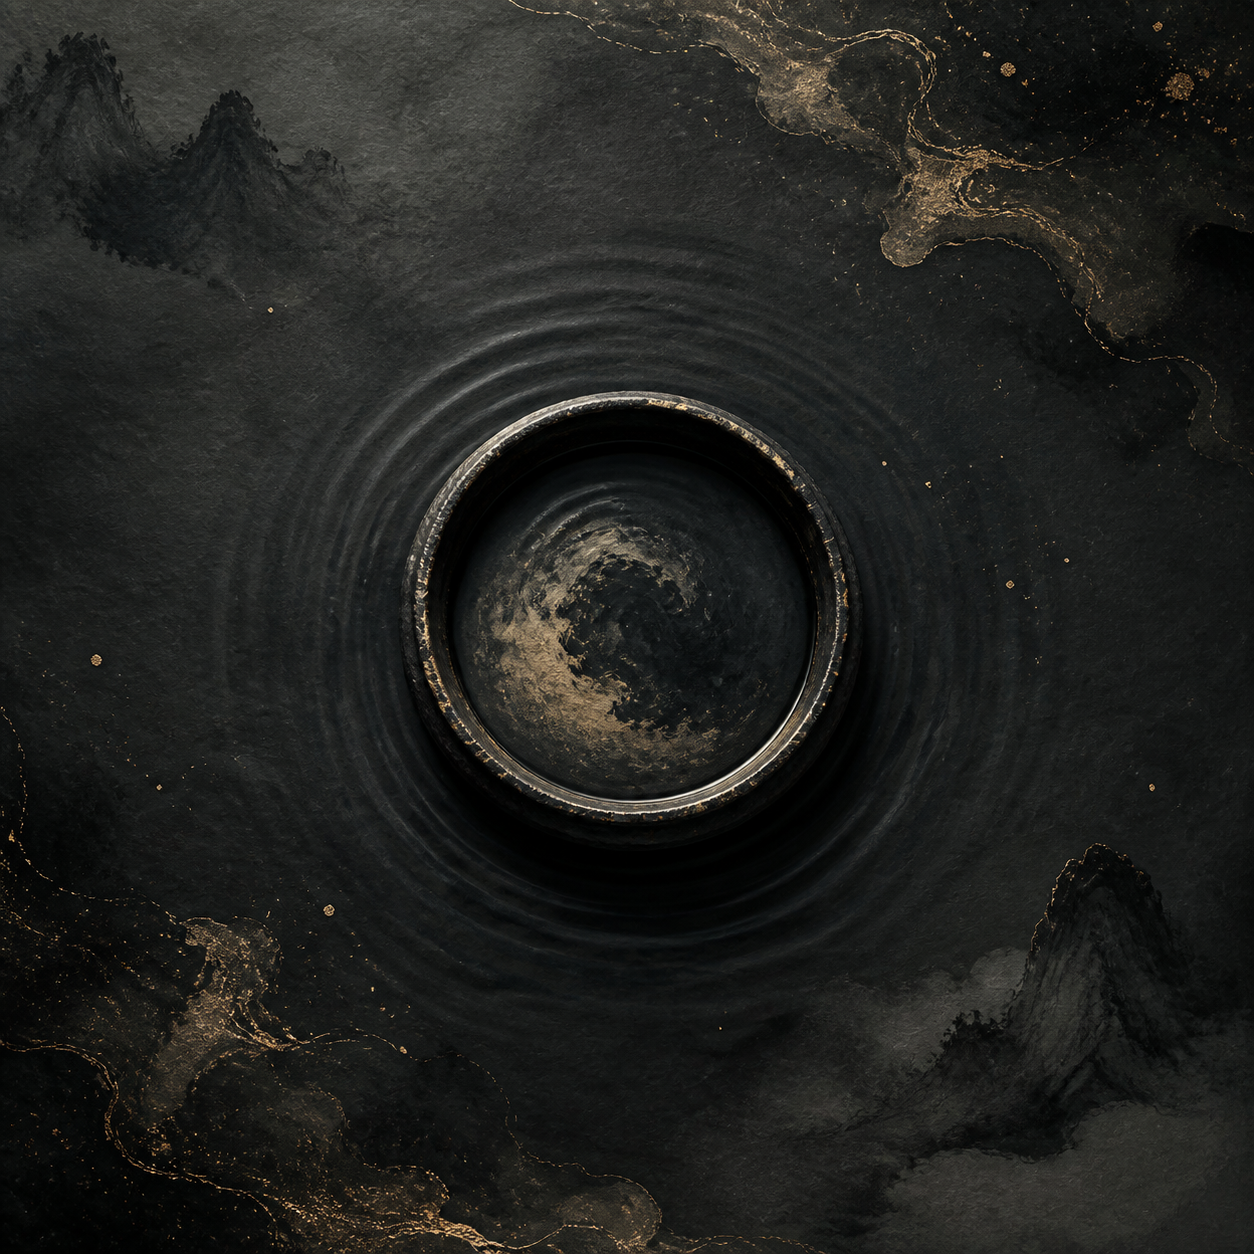
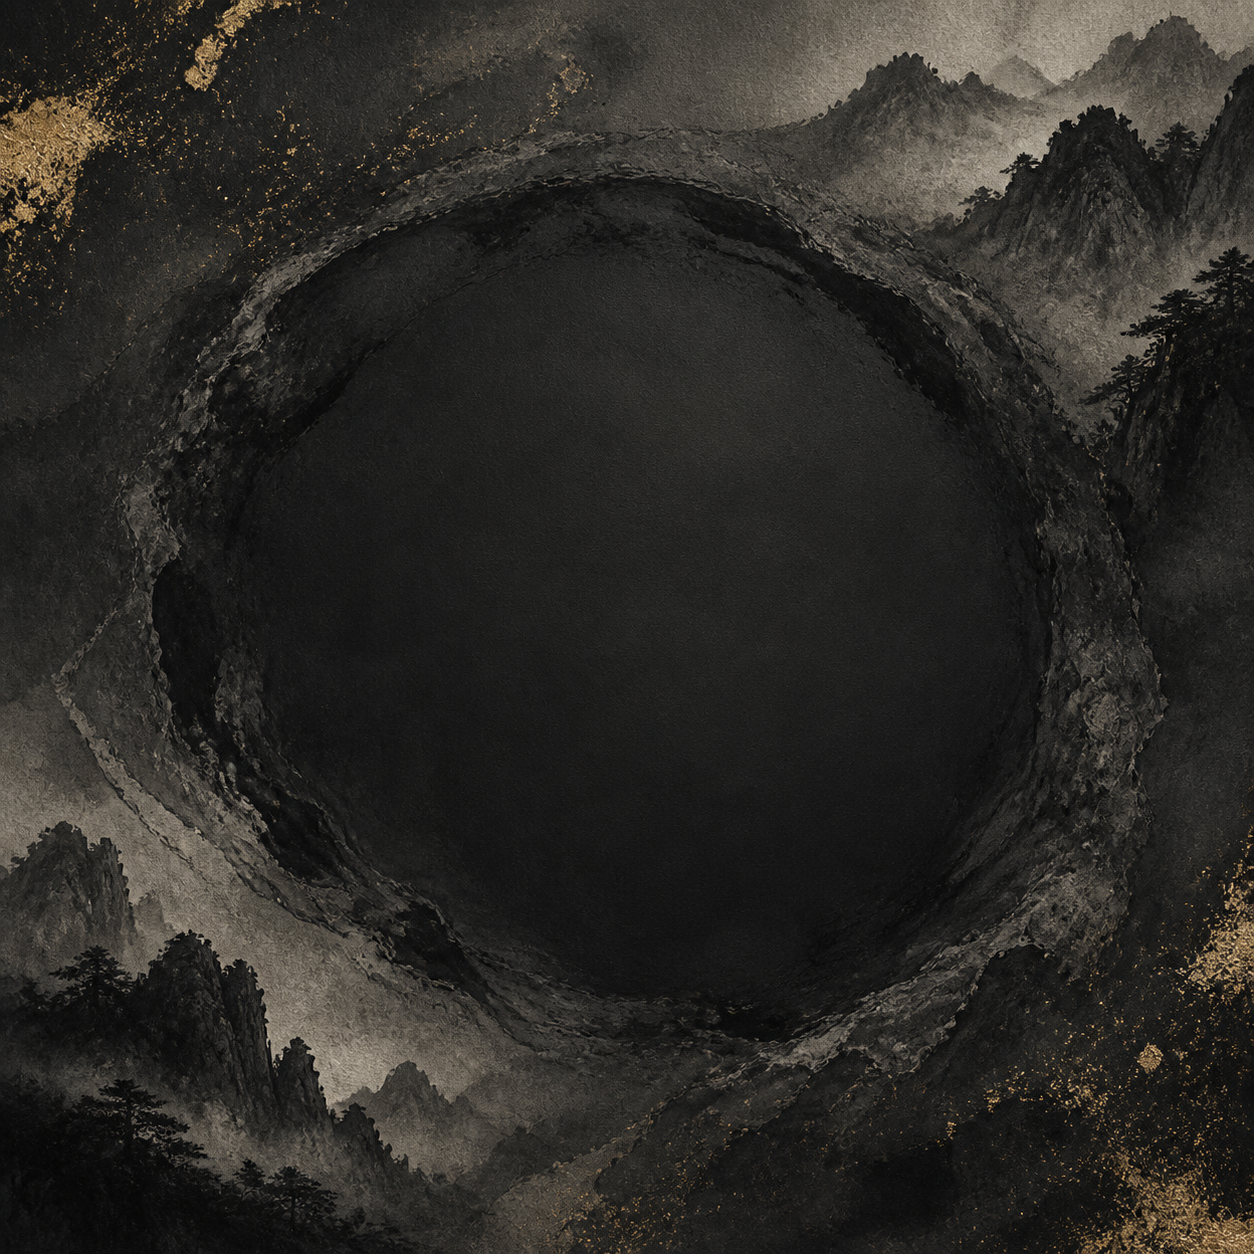
Separate audio lines from artwork backgrounds

diff --git a/backend/moyun_backend/static/anonymous-visualizer.js b/backend/moyun_backend/static/anonymous-visualizer.js
@@ -1,30 +1,29 @@
 (() => {
   "use strict";
 
-  const themes = {
-    "ink-resonance": { ink: "#0c1918", paper: "#263937", gold: "#dcc27c", mist: "#91a89a" },
-    "moonlit-strings": { ink: "#183331", paper: "#f2e5c1", gold: "#d2a848", mist: "#69877c" },
-    "landscape-score": { ink: "#102927", paper: "#dbe2cf", gold: "#e0bd65", mist: "#4e7569" },
+  const palettes = {
+    "ink-resonance": "#e4c878",
+    "moonlit-strings": "#c99d3d",
+    "landscape-score": "#e5bf61",
   };
-  const emptySpectrum = new Uint8Array(128);
   const states = [];
   let audioContext;
   let activeState;
-  let animationFrame;
+  let frameRequest;
 
-  const average = (data, start, end) => {
+  const average = (values, start, end) => {
     let total = 0;
-    const upper = Math.min(data.length, end);
-    for (let index = start; index < upper; index += 1) total += data[index];
+    const upper = Math.min(values.length, end);
+    for (let index = start; index < upper; index += 1) total += values[index];
     return upper > start ? total / ((upper - start) * 255) : 0;
   };
 
-  const resize = (state) => {
+  const fit = (state) => {
     const bounds = state.canvas.getBoundingClientRect();
     const ratio = Math.min(window.devicePixelRatio || 1, 2);
     const width = Math.max(1, Math.round(bounds.width));
     const height = Math.max(1, Math.round(bounds.height));
-    if (state.width === width && state.height === height && state.ratio === ratio) return;
+    if (width === state.width && height === state.height && ratio === state.ratio) return;
     state.width = width;
     state.height = height;
     state.ratio = ratio;
@@ -32,129 +31,95 @@
     state.canvas.height = height * ratio;
   };
 
-  const begin = (state) => {
-    resize(state);
+  const clear = (state) => {
+    fit(state);
     const { context, ratio, width, height } = state;
     context.setTransform(ratio, 0, 0, ratio, 0, 0);
     context.clearRect(0, 0, width, height);
     return { context, width, height };
   };
 
-  const drawBackground = (state, context, width, height, fallback, tint) => {
-    const background = state.background;
-    if (background?.complete && background.naturalWidth > 0) {
-      const scale = Math.max(width / background.naturalWidth, height / background.naturalHeight);
-      const drawWidth = background.naturalWidth * scale;
-      const drawHeight = background.naturalHeight * scale;
-      context.drawImage(background, (width - drawWidth) / 2, (height - drawHeight) / 2, drawWidth, drawHeight);
-      context.fillStyle = tint;
-      context.fillRect(0, 0, width, height);
-      return;
-    }
-    context.fillStyle = fallback;
-    context.fillRect(0, 0, width, height);
-  };
-
   const drawInk = (state, spectrum) => {
-    const { context, width, height } = begin(state);
-    const theme = state.theme;
+    const { context, width, height } = clear(state);
     const energy = average(spectrum, 2, 40);
     const centerX = width * 0.5;
-    const centerY = height * 0.54;
-    const radius = Math.min(width, height) * (0.17 + energy * 0.08);
-    drawBackground(state, context, width, height, theme.ink, "rgba(5, 15, 14, 0.34)");
-    const wash = context.createRadialGradient(centerX, centerY, 0, centerX, centerY, width * 0.72);
-    wash.addColorStop(0, "rgba(27, 48, 45, 0.48)");
-    wash.addColorStop(0.58, "rgba(12, 25, 24, 0.26)");
-    wash.addColorStop(1, "rgba(8, 17, 16, 0.42)");
-    context.fillStyle = wash;
-    context.fillRect(0, 0, width, height);
-    context.strokeStyle = "#d9c47c";
-    context.globalAlpha = 0.24 + energy * 0.5;
-    context.lineWidth = 1;
+    const centerY = height * 0.53;
+    const base = Math.min(width, height) * (0.14 + energy * 0.05);
+    context.strokeStyle = palettes["ink-resonance"];
+    context.lineWidth = 1.1;
     for (let ring = 0; ring < 6; ring += 1) {
-      const bin = spectrum[(ring * 6) + 4] / 255;
+      const bin = spectrum[(ring * 5) + 4] / 255;
+      context.globalAlpha = 0.14 + bin * 0.55;
       context.beginPath();
-      context.ellipse(centerX, centerY, radius + ring * 16 + bin * 18, radius * 0.48 + ring * 7 + bin * 9, 0, 0, Math.PI * 2);
+      context.ellipse(centerX, centerY, base + ring * 14 + bin * 14, base * 0.5 + ring * 5 + bin * 7, 0, 0, Math.PI * 2);
       context.stroke();
     }
-    context.globalAlpha = 1;
-    context.fillStyle = "#081211";
-    context.beginPath();
-    context.arc(centerX, centerY, radius, 0, Math.PI * 2);
-    context.fill();
-    context.strokeStyle = theme.gold;
-    context.globalAlpha = 0.72;
-    context.lineWidth = 2;
-    context.beginPath();
-    context.arc(centerX, centerY, radius, 0, Math.PI * 2);
-    context.stroke();
     context.globalAlpha = 1;
   };
 
   const drawMoon = (state, spectrum) => {
-    const { context, width, height } = begin(state);
-    const theme = state.theme;
+    const { context, width, height } = clear(state);
     const energy = average(spectrum, 3, 42);
-    drawBackground(state, context, width, height, theme.paper, "rgba(250, 239, 207, 0.17)");
-    context.strokeStyle = theme.gold;
-    context.shadowColor = "#f6df94";
-    context.shadowBlur = 4 + energy * 16;
-    context.lineWidth = 1.15;
+    context.strokeStyle = palettes["moonlit-strings"];
+    context.shadowColor = "#f6dc8d";
+    context.shadowBlur = 3 + energy * 12;
+    context.lineWidth = 1.05;
     for (let string = 0; string < 7; string += 1) {
-      const y = height * (0.48 + string * 0.055);
-      const amplitude = 3 + (spectrum[(string * 5) + 5] / 255) * (14 + energy * 26);
+      const y = height * (0.43 + string * 0.052);
+      const amplitude = 2 + (spectrum[(string * 5) + 6] / 255) * (11 + energy * 24);
+      context.globalAlpha = 0.2 + (spectrum[(string * 5) + 6] / 255) * 0.78;
       context.beginPath();
-      context.moveTo(-8, y);
-      context.bezierCurveTo(width * 0.31, y - amplitude, width * 0.62, y + amplitude, width + 8, y - amplitude * 0.16);
+      context.moveTo(-6, y);
+      context.bezierCurveTo(width * 0.29, y - amplitude, width * 0.66, y + amplitude, width + 6, y - amplitude * 0.12);
       context.stroke();
     }
+    context.globalAlpha = 1;
     context.shadowBlur = 0;
   };
 
   const drawLandscape = (state, spectrum) => {
-    const { context, width, height } = begin(state);
-    const theme = state.theme;
-    drawBackground(state, context, width, height, theme.ink, "rgba(13, 38, 35, 0.22)");
-    const centerY = height * 0.57;
-    context.strokeStyle = theme.gold;
-    context.shadowColor = "#f5dea0";
-    context.shadowBlur = 7;
-    context.lineWidth = 2;
+    const { context, width, height } = clear(state);
+    const centerY = height * 0.56;
+    context.strokeStyle = palettes["landscape-score"];
+    context.shadowColor = "#f7db86";
+    context.shadowBlur = 6;
+    context.lineWidth = 1.8;
+    context.globalAlpha = 0.84;
     context.beginPath();
     for (let point = 0; point <= 72; point += 1) {
       const value = spectrum[Math.min(spectrum.length - 1, point + 2)] / 255;
       const x = (point / 72) * width;
-      const y = centerY - (value - 0.08) * height * 0.56;
+      const y = centerY - (value - 0.06) * height * 0.5;
       if (point === 0) context.moveTo(x, y);
       else context.lineTo(x, y);
     }
     context.stroke();
+    context.globalAlpha = 1;
     context.shadowBlur = 0;
   };
 
-  const draw = (state, spectrum = emptySpectrum) => {
+  const draw = (state, spectrum) => {
     if (state.artwork === "moonlit-strings") drawMoon(state, spectrum);
     else if (state.artwork === "landscape-score") drawLandscape(state, spectrum);
     else drawInk(state, spectrum);
   };
 
-  const stopAnimation = () => {
-    if (animationFrame) cancelAnimationFrame(animationFrame);
-    animationFrame = undefined;
+  const stopFrame = () => {
+    if (frameRequest) cancelAnimationFrame(frameRequest);
+    frameRequest = undefined;
   };
 
   const render = () => {
     if (!activeState || activeState.audio.paused || activeState.audio.ended) {
-      stopAnimation();
+      stopFrame();
       return;
     }
     activeState.analyser.getByteFrequencyData(activeState.spectrum);
     draw(activeState, activeState.spectrum);
-    animationFrame = requestAnimationFrame(render);
+    frameRequest = requestAnimationFrame(render);
   };
 
-  const connectAnalyser = (state) => {
+  const connect = (state) => {
     if (!window.AudioContext && !window.webkitAudioContext) return false;
     if (!audioContext) audioContext = new (window.AudioContext || window.webkitAudioContext)();
     if (state.analyser) return true;
@@ -171,16 +136,16 @@
     states.forEach((otherState) => {
       if (otherState === state) return;
       otherState.audio.pause();
-      draw(otherState);
+      clear(otherState);
     });
-    if (!connectAnalyser(state)) return;
+    if (!connect(state)) return;
     try {
       await audioContext.resume();
     } catch (_) {
       return;
     }
     activeState = state;
-    stopAnimation();
+    stopFrame();
     render();
   };
 
@@ -189,25 +154,18 @@
     const audio = card?.querySelector("audio");
     const context = canvas.getContext("2d");
     if (!audio || !context) return;
-    const background = new Image();
-    background.decoding = "async";
-    const state = { canvas, audio, context, artwork: canvas.dataset.artwork, theme: themes[canvas.dataset.artwork] || themes["ink-resonance"], background };
+    const state = { canvas, audio, context, artwork: canvas.dataset.artwork };
     states.push(state);
-    draw(state);
-    if (canvas.dataset.background) {
-      background.addEventListener("load", () => draw(state));
-      background.src = canvas.dataset.background;
-    }
+    clear(state);
     audio.addEventListener("play", () => { void activate(state); });
     audio.addEventListener("pause", () => {
-      if (activeState !== state) return;
-      activeState = undefined;
-      stopAnimation();
-      draw(state);
+      if (activeState === state) activeState = undefined;
+      stopFrame();
+      clear(state);
     });
-    audio.addEventListener("ended", () => draw(state));
-    if (window.ResizeObserver) new ResizeObserver(() => draw(state)).observe(canvas);
-    else window.addEventListener("resize", () => draw(state));
+    audio.addEventListener("ended", () => clear(state));
+    if (window.ResizeObserver) new ResizeObserver(() => clear(state)).observe(canvas);
+    else window.addEventListener("resize", () => clear(state));
   };
 
   document.querySelectorAll(".anonymous-visualizer").forEach(attach);

diff --git a/backend/moyun_backend/main.py b/backend/moyun_backend/main.py
@@ -222,7 +222,8 @@ def page(title: str, body: str, *, status_code: int = 200) -> HTMLResponse:
 <title>{html.escape(title)}｜古韻新生</title>
 <style>
   .anonymous-art {{ height:190px; overflow:hidden; margin:-20px -20px 18px; background:#1c312a; }}
-  .anonymous-art canvas {{ display:block; width:100%; height:100%; }}
+  .anonymous-art img {{ display:block; width:100%; height:100%; object-fit:cover; }}
+  .anonymous-art {{ position:relative; }} .anonymous-art canvas {{ position:absolute; inset:0; display:block; width:100%; height:100%; pointer-events:none; }}
   :root {{ color-scheme: light; font-family: "Noto Serif TC", "Microsoft JhengHei", serif; color: #19302c; background:#f5f2e9; }}
   body {{ margin:0; min-height:100vh; display:grid; place-items:center; background:radial-gradient(circle at top right,#d9e3dc,transparent 38%),#f5f2e9; }}
   main {{ width:min(680px,calc(100% - 40px)); margin:40px 20px; padding:36px; background:#fffdf8; border:1px solid #d8d1c3; box-shadow:0 16px 45px #23362a20; }}
@@ -339,14 +340,14 @@ def create_app(settings: Settings | None = None) -> FastAPI:
             audio_type = html.escape(work["audio_content_type"] or "audio/mpeg")
             artwork_keys = tuple(ANONYMOUS_ARTWORKS)
             artwork_key = artwork_keys[(work["id"] - 1) % len(artwork_keys)]
-            artwork_url = public_path(settings, "/art/" + artwork_key + "?v=canvas-artwork-20260825")
+            artwork_url = public_path(settings, "/art/" + artwork_key + "?v=canvas-artwork-20260825-v2")
             if settings.public_reveal_work_metadata:
                 metadata = f"""<p class="eyebrow">匿名作品 #{work['id']:03d}・{html.escape(work['category'])}</p>
 <h2>{html.escape(work['work_title'])}</h2><p class="muted">{html.escape(work['description'])}</p>"""
             else:
                 metadata = f"""<p class="eyebrow">ANONYMOUS ENTRY</p>
 <h2>匿名作品 #{work['id']:03d}</h2><p class="muted">歌名與創作理念將於主辦單位公告後統一公開。</p>"""
-            return f"""<article class="work"><div class="anonymous-art" aria-hidden="true"><canvas class="anonymous-visualizer" data-artwork="{artwork_key}" data-background="{artwork_url}"></canvas></div>{metadata}
+            return f"""<article class="work"><div class="anonymous-art" aria-hidden="true"><img src="{artwork_url}" alt=""><canvas class="anonymous-visualizer" data-artwork="{artwork_key}"></canvas></div>{metadata}
 <audio controls preload="metadata"><source src="{audio_source}" type="{audio_type}">你的瀏覽器不支援音檔播放。</audio></article>"""
 
         cards = "".join(

diff --git a/backend/tests/test_main.py b/backend/tests/test_main.py
@@ -384,8 +384,8 @@ def test_public_gallery_plays_uploaded_audio_without_exposing_discord_identity(t
     assert "月下長安" not in gallery.text
     assert "一段公開的旋律。" not in gallery.text
     assert "/guyun/media/sample.mp3" in gallery.text
+    assert '<img src="/guyun/art/ink-resonance?v=canvas-artwork-20260825-v2" alt=""><canvas class="anonymous-visualizer" data-artwork="ink-resonance"></canvas>' in gallery.text
     assert '/guyun/anonymous-visualizer.js' in gallery.text
-    assert '<canvas class="anonymous-visualizer" data-artwork="ink-resonance" data-background="/guyun/art/ink-resonance?v=canvas-artwork-20260825"></canvas>' in gallery.text
     assert '<video' not in gallery.text
     assert "@keyframes anonymous-art" not in gallery.text
     assert "animation:anonymous-art" not in gallery.text
@@ -401,7 +401,6 @@ def test_public_gallery_plays_uploaded_audio_without_exposing_discord_identity(t
     assert "createMediaElementSource" in visualizer.text
     assert "getByteFrequencyData" in visualizer.text
     assert "requestAnimationFrame" in visualizer.text
-    assert "new Image" in visualizer.text
 
 
 def test_public_gallery_hides_admin_test_uploads(tmp_path):
